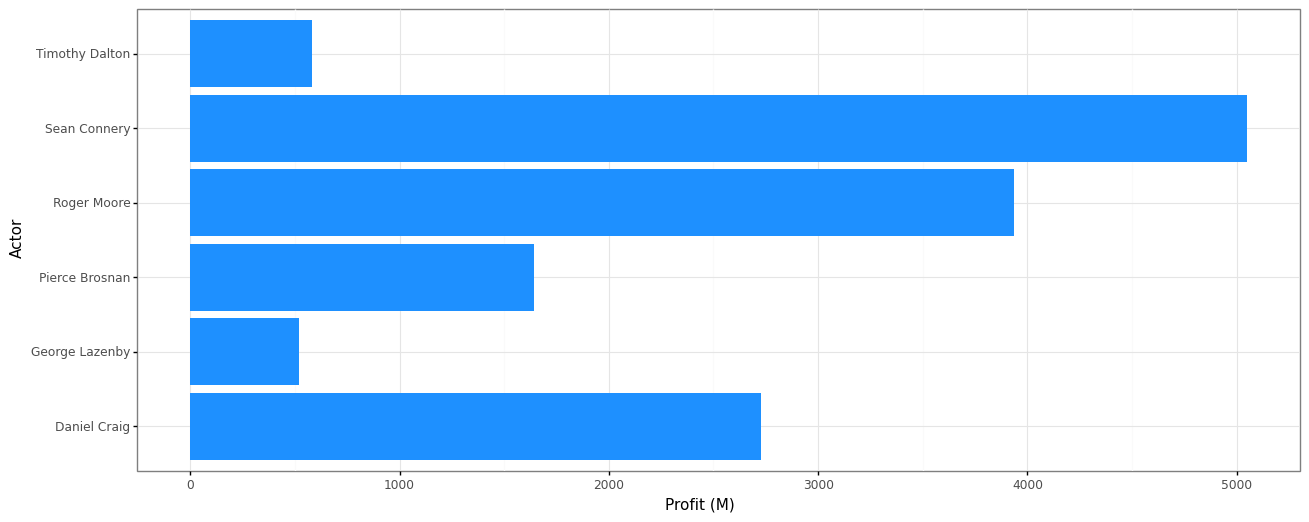
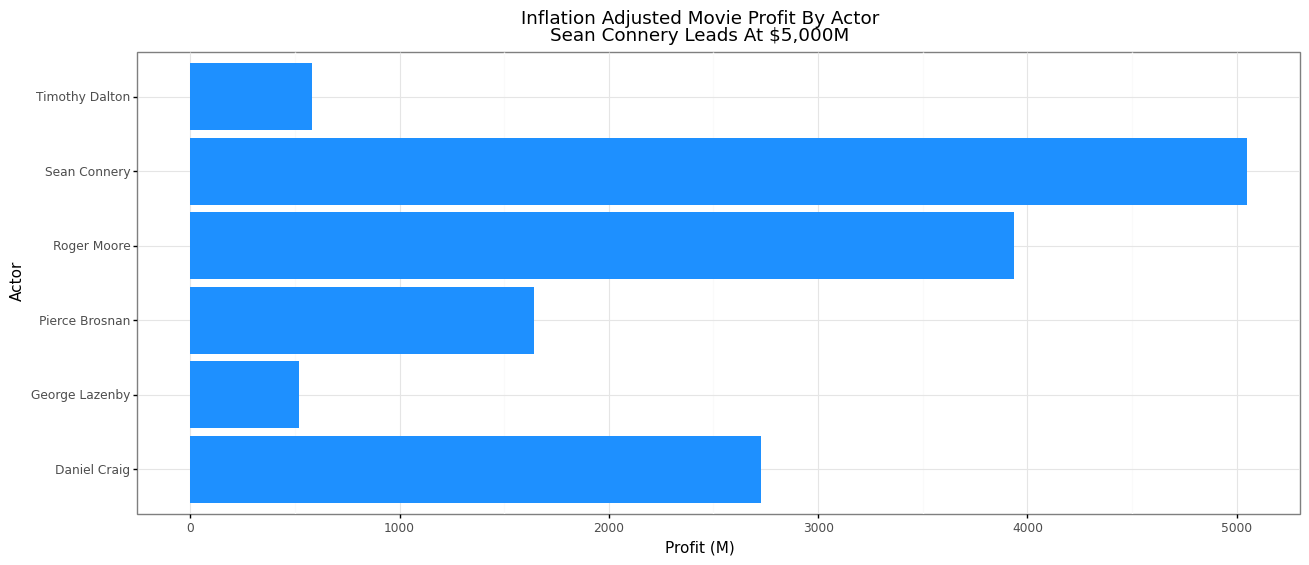
Added Graphs

diff --git a/scripts/inv_p1_ashworth.py b/scripts/inv_p1_ashworth.py
@@ -10,13 +10,16 @@ jb_dollars = pd.read_csv("C:/code/individual_p1_ashworth/data/james_bond_dollars
 
 # %%
 # Combine two files to combine in charts
-#jb_combined = pd.concat([jb_ratings, jb_dollars], join = "inner", keys = "title", axis = 1)
 
 jb_combined = pd.merge(jb_ratings, jb_dollars, how = 'inner', on = 'title')
 # %%
+# Check df dimensions
 jb_combined.shape
 # %%
 jb_combined = jb_combined.assign(inf_adj_profit_mil = lambda x: x['inf_adj_profit'] / 1000000)
+jb_combined = jb_combined.assign(worldwide_mil = lambda x: x['worldwide'] / 1000000)
+jb_combined = jb_combined.assign(inf_adj_worldwide_mil = lambda x: x['inf_adj_worldwide'] / 1000000)
+jb_combined = jb_combined.assign(inf_adj_budget_mil = lambda x: x['inf_adj_budget'] / 1000000)
 
 # %%
 # Graph total inflation adjusted dollars
@@ -24,7 +27,8 @@ plot = (ggplot(jb_combined, aes(x = 'main_actor', y = 'inf_adj_profit_mil')) +
     geom_col(fill = 'dodgerblue') +
     coord_flip() +
     labs(x = "Actor",
-         y = "Profit (M)") +
+         y = "Profit (M)",
+         title = "Inflation Adjusted Movie Profit By Actor\nSean Connery Leads At $5,000M") +
     theme_bw() 
 )
 
@@ -33,12 +37,14 @@ plot = (ggplot(jb_combined, aes(x = 'main_actor', y = 'inf_adj_profit_mil')) +
 plot.save("C:/code/individual_p1_ashworth/documents/graph1_inflation_adj_profit_by_actor.png", width = 15, height = 6)
 
 # %%
+# Graph simple count of movies by actor
 plot2 = (ggplot(jb_combined, aes(x = 'main_actor')) +
     geom_bar(fill = 'dodgerblue') +
     coord_flip() +
     #facet_wrap('~ main_actor', scales = 'free_y', nrow = 1) +
     labs(x = "Actor",
-         y = "Movie Count") +
+         y = "Movie Count",
+         title = "Movie Count By Actor\nSean Connery & Roger Moore Lead With Seven") +
     #scale_size(breaks =  [1000000000, 2000000000, 3000000000, 4000000000, 5000000000],
     #               labels = ["1,000M", "2,000M", "3,000M", "4,000M", "5,000 M"]) +
     theme_bw() #+
@@ -48,3 +54,69 @@ plot2 = (ggplot(jb_combined, aes(x = 'main_actor')) +
 # %%
 # Save the first graph
 plot2.save("C:/code/individual_p1_ashworth/documents/graph2_count_by_actor.png", width = 15, height = 6)
+
+# %%
+# Create df with average movie profit by actor
+def w_avg(df, values, weights):
+    d = df[values]
+    w = df[weights]
+    return d.sum() / w.count()
+
+wam = jb_combined.groupby(['main_actor'],as_index = False)['inf_adj_profit_mil'].sum()
+wam2 = jb_combined.groupby(['main_actor'],as_index = False).apply(w_avg, 'inf_adj_profit_mil', 'title')
+wam2.columns = ['main_actor', 'avg_movie_profit']
+
+wam3 = wam.merge(wam2, how = 'inner')
+
+
+# %%
+# Graph Average inflation adj profit by actor
+plot3 = (ggplot(wam3, aes(x = 'main_actor', y = 'avg_movie_profit')) +
+    geom_col(fill = 'dodgerblue') +
+    coord_flip() +
+    #facet_wrap('~ main_actor', scales = 'free_y', nrow = 1) +
+    labs(x = "Actor",
+         y = "Average Profit Per Movie (M)",
+         title = "Average Movie Profit By Actor\nSean Connery Leads At $721M") +
+    #scale_size(breaks =  [1000000000, 2000000000, 3000000000, 4000000000, 5000000000],
+    #               labels = ["1,000M", "2,000M", "3,000M", "4,000M", "5,000 M"]) +
+    theme_bw() #+
+    #theme(legend_key = element_rect(fill = 0, alpha = 0))
+)
+
+# %%
+# Save the first graph
+plot3.save("C:/code/individual_p1_ashworth/documents/graph3_avg_profit_by_actor.png", width = 15, height = 6)
+# %%
+# %%
+# Graph worldwide box office without adjusted dollars
+plot4 = (ggplot(jb_combined, aes(x = 'main_actor', y = 'worldwide_mil')) +
+    geom_col(fill = 'dodgerblue') +
+    coord_flip() +
+    labs(x = "Actor",
+         y = "Box Office (M)",
+         title = "Worldwide Box Office Take By Actor\nDaniel Craig Leads With Over $3,000M") +
+    theme_bw() 
+)
+
+# %%
+# Save the first graph
+plot4.save("C:/code/individual_p1_ashworth/documents/graph4_boxoffice_by_actor.png", width = 15, height = 6)
+
+# %%
+# Graph yearly box office totals
+plot5 = (ggplot(jb_combined, aes(x = 'year', y = 'inf_adj_worldwide_mil')) +
+    geom_line(color = 'dodgerblue') +
+    geom_line(aes(y = 'inf_adj_budget_mil'), color = 'red') +
+    #coord_flip() +
+    labs(x = "Year",
+         y = "Box Office (M)",
+         title = "Worldwide Box Office\nBond Series Has A Rough Stretch 1980 to 1990\nInflation Adjusted Budget (red line) Shows Larger Budgets Did Not Guarantee Larger Profits") +
+    theme_bw() 
+)
+
+# %%
+# Save the first graph
+plot5.save("C:/code/individual_p1_ashworth/documents/graph5_worldwide_by_year.png", width = 15, height = 6)
+
+# %%
